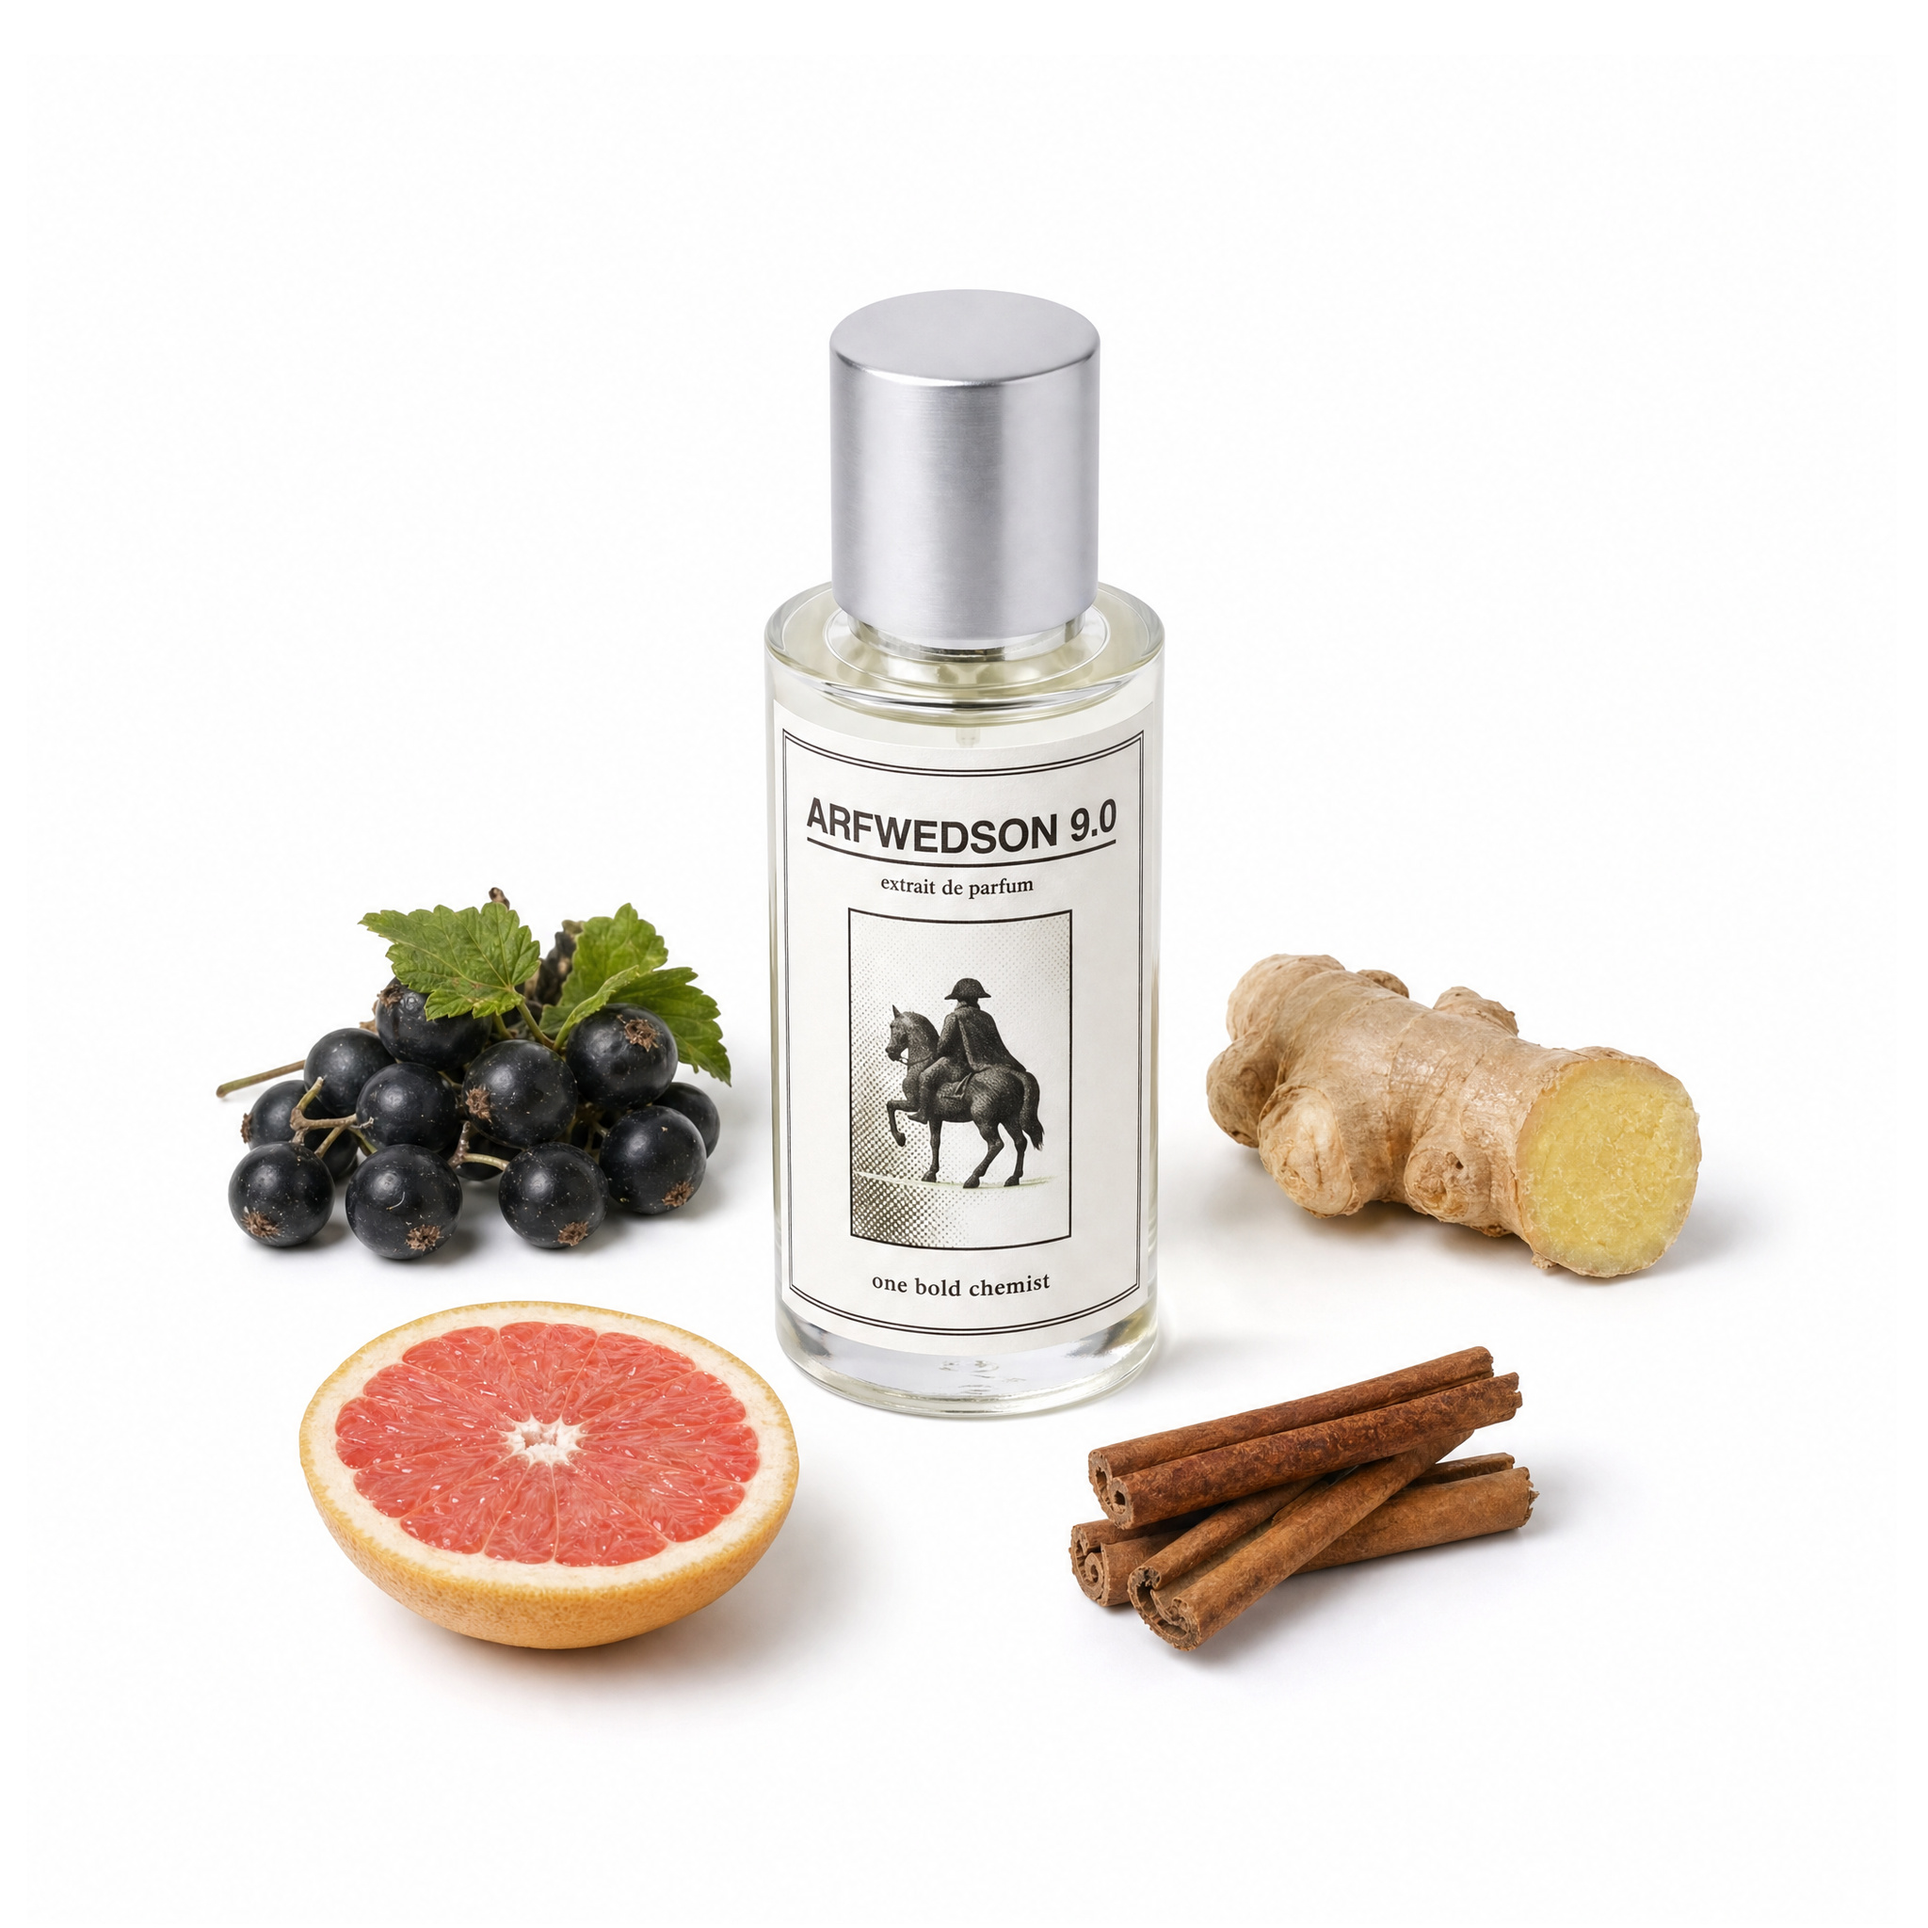
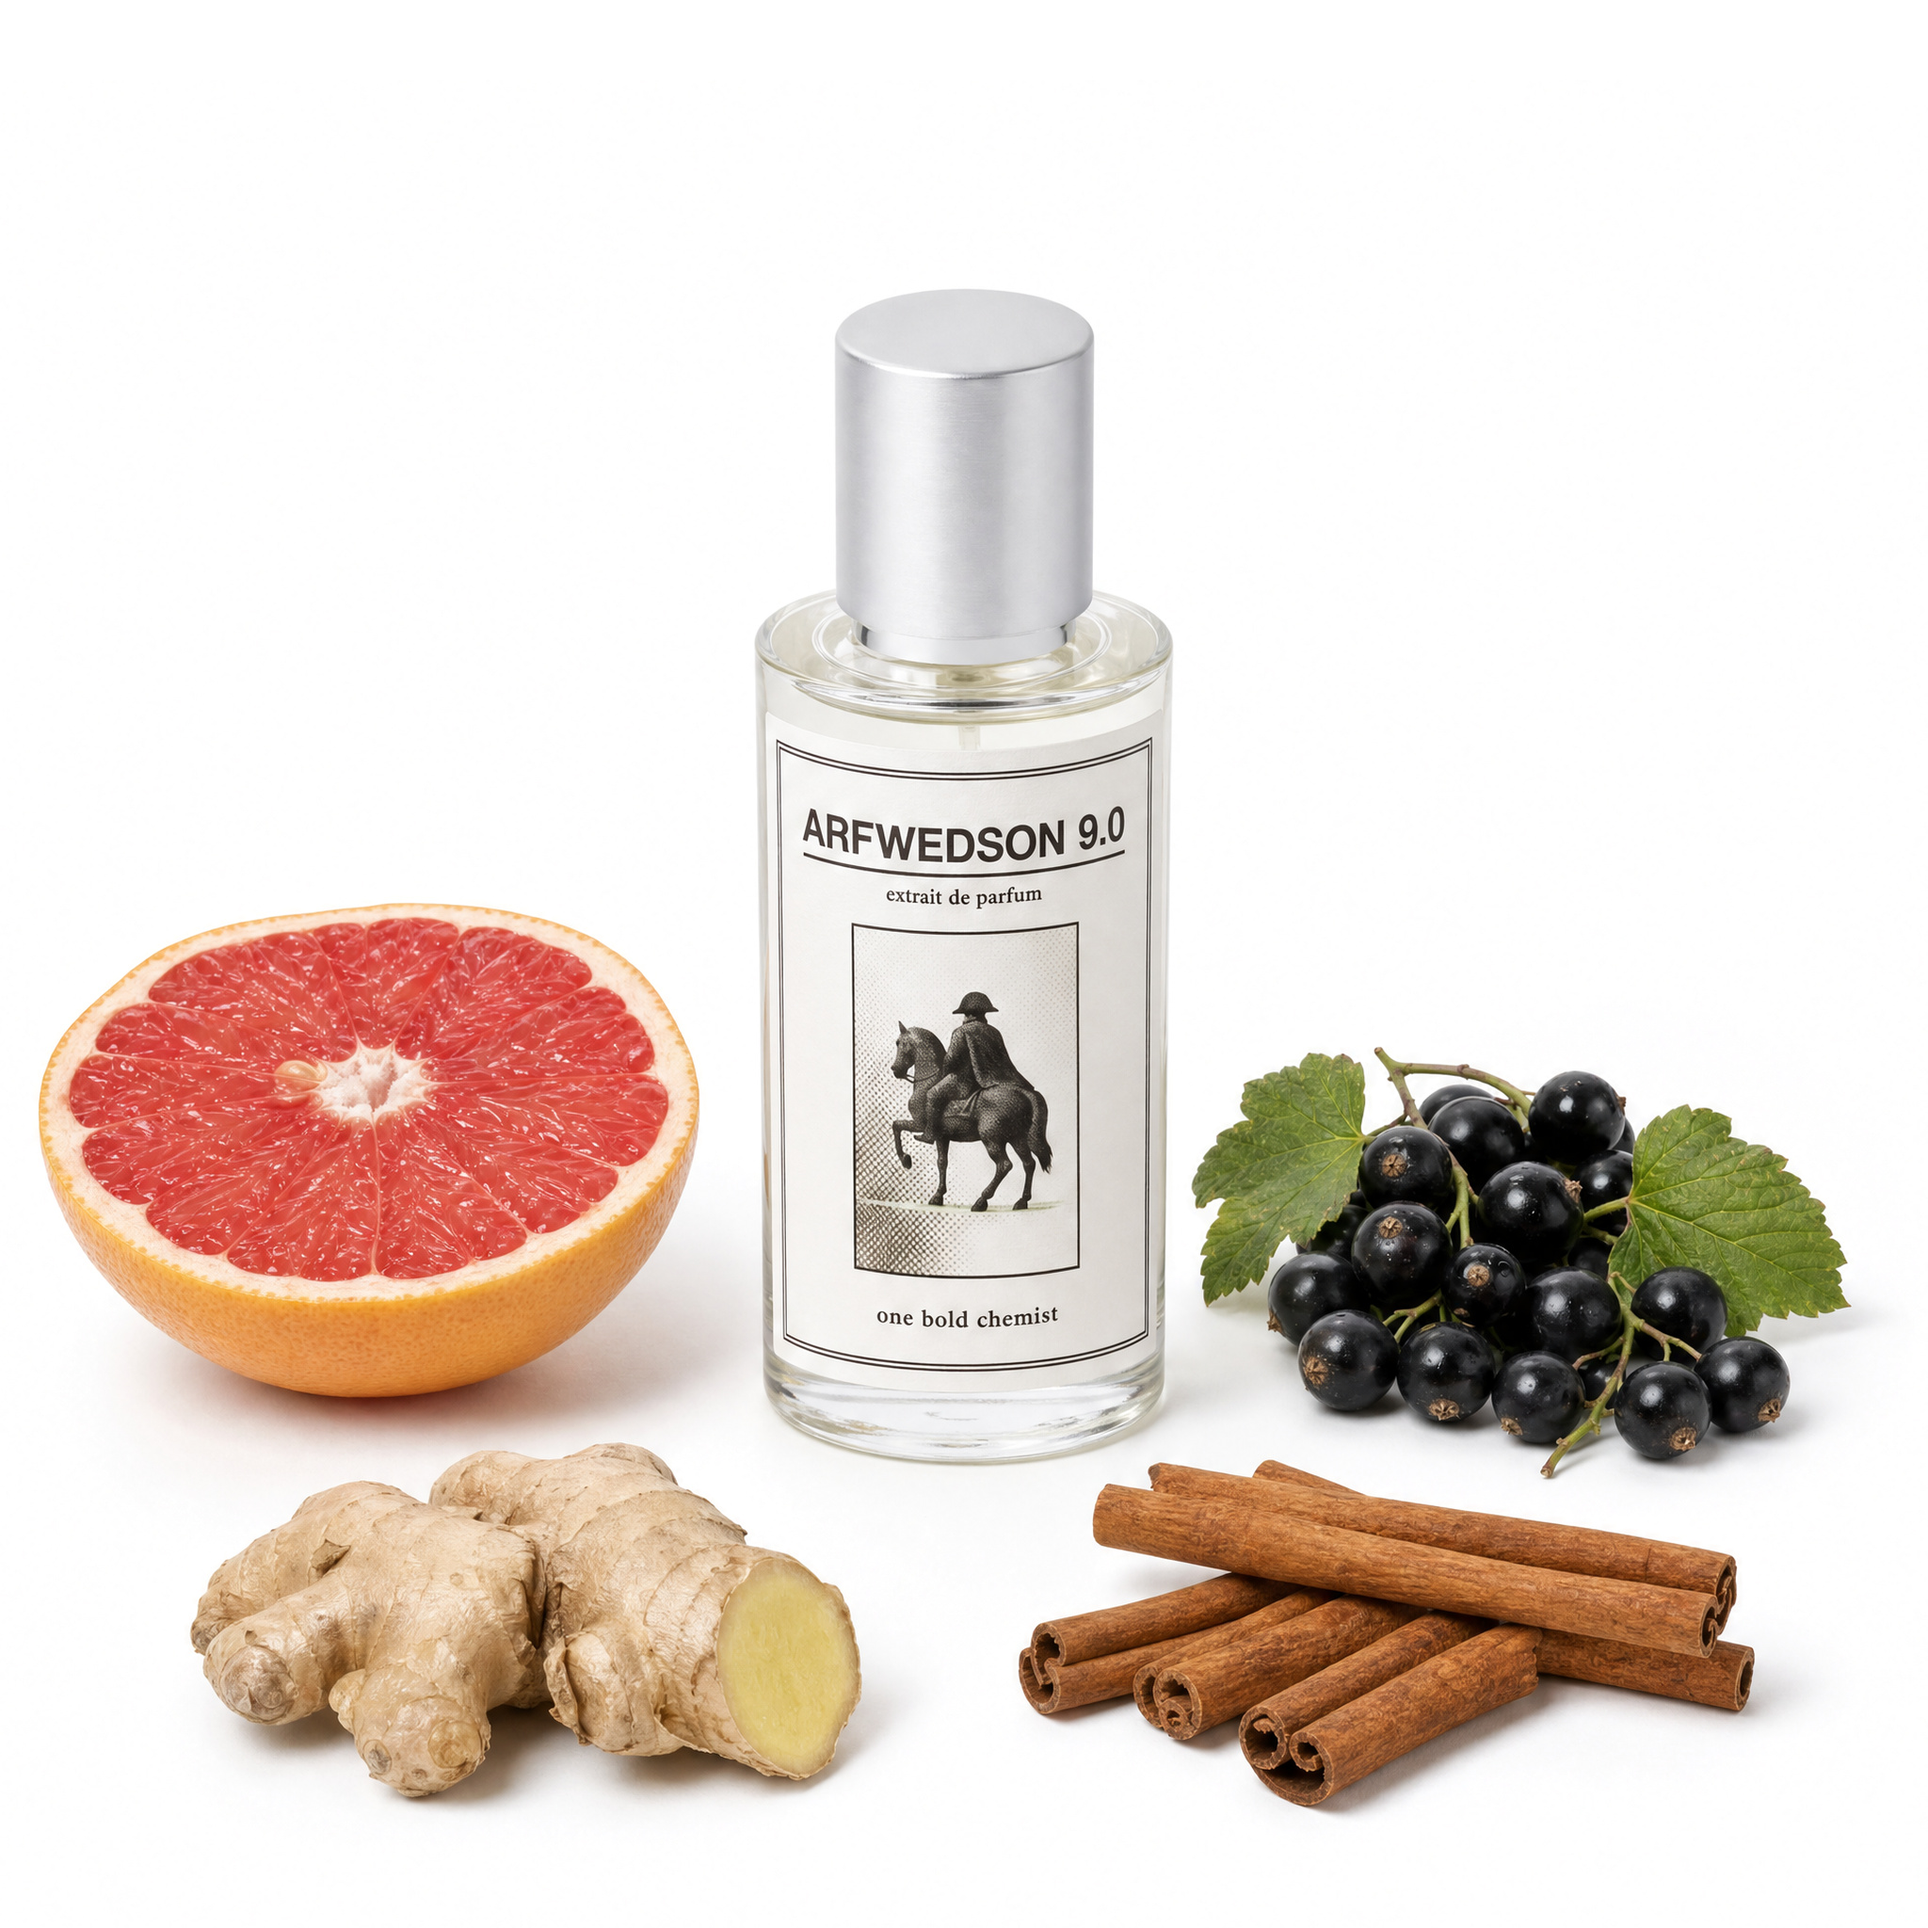
Notes images 1.0-10.0: gpt-image-2 set with smooth cap, real-world scale, white-balanced normalization
Claude-Session: https://claude.ai/code/session_016v8pxCBCRgnJrBoVHWv8hg

diff --git a/notes-images/README.md b/notes-images/README.md
@@ -50,6 +50,20 @@ python3 scripts/normalize.py output/*_noter_gpt.png --out output/final --cap-top
 alla flaskor får samma storlek och plats. `--fit` väljer den största storlek som ryms i alla bilder utan att någon
 ingrediens klipps; `--cap-width 0.14` låser samma storlek när fler parfymer körs senare, så nya bilder matchar de gamla.
 
+## Slutbilder och normalisering
+
+`output/final/` är leveransen: gpt-image-2-bilderna (`output/*_noter_gpt.png`) normaliserade så att
+flaskan har exakt samma storlek och position i alla bilder och bakgrunden är exakt vit.
+
+```bash
+python3 scripts/generate.py --provider openai --model gpt-image-2 --size 2K --style-ref reference/style-ref.jpg --skus 1-10
+python3 scripts/normalize.py output/*_noter_gpt.png --out output/final --cap-top 0.15 --fit
+```
+
+`normalize.py` vitbalanserar bakgrunden, mäter kapsylens överkant och bredd, och skalar/förskjuter så att
+kapsyltoppen hamnar på 15 % av höjden. `--fit` väljer största gemensamma flaskstorlek som ryms i alla
+bilder utan att något klipps; för att nya bilder ska matcha de här tio, använd i stället `--cap-width 0.134`.
+
 ## Manuellt i Gemini-appen / AI Studio
 
 1. Öppna `prompts/<nr>_<namn>.txt` och kopiera texten.
